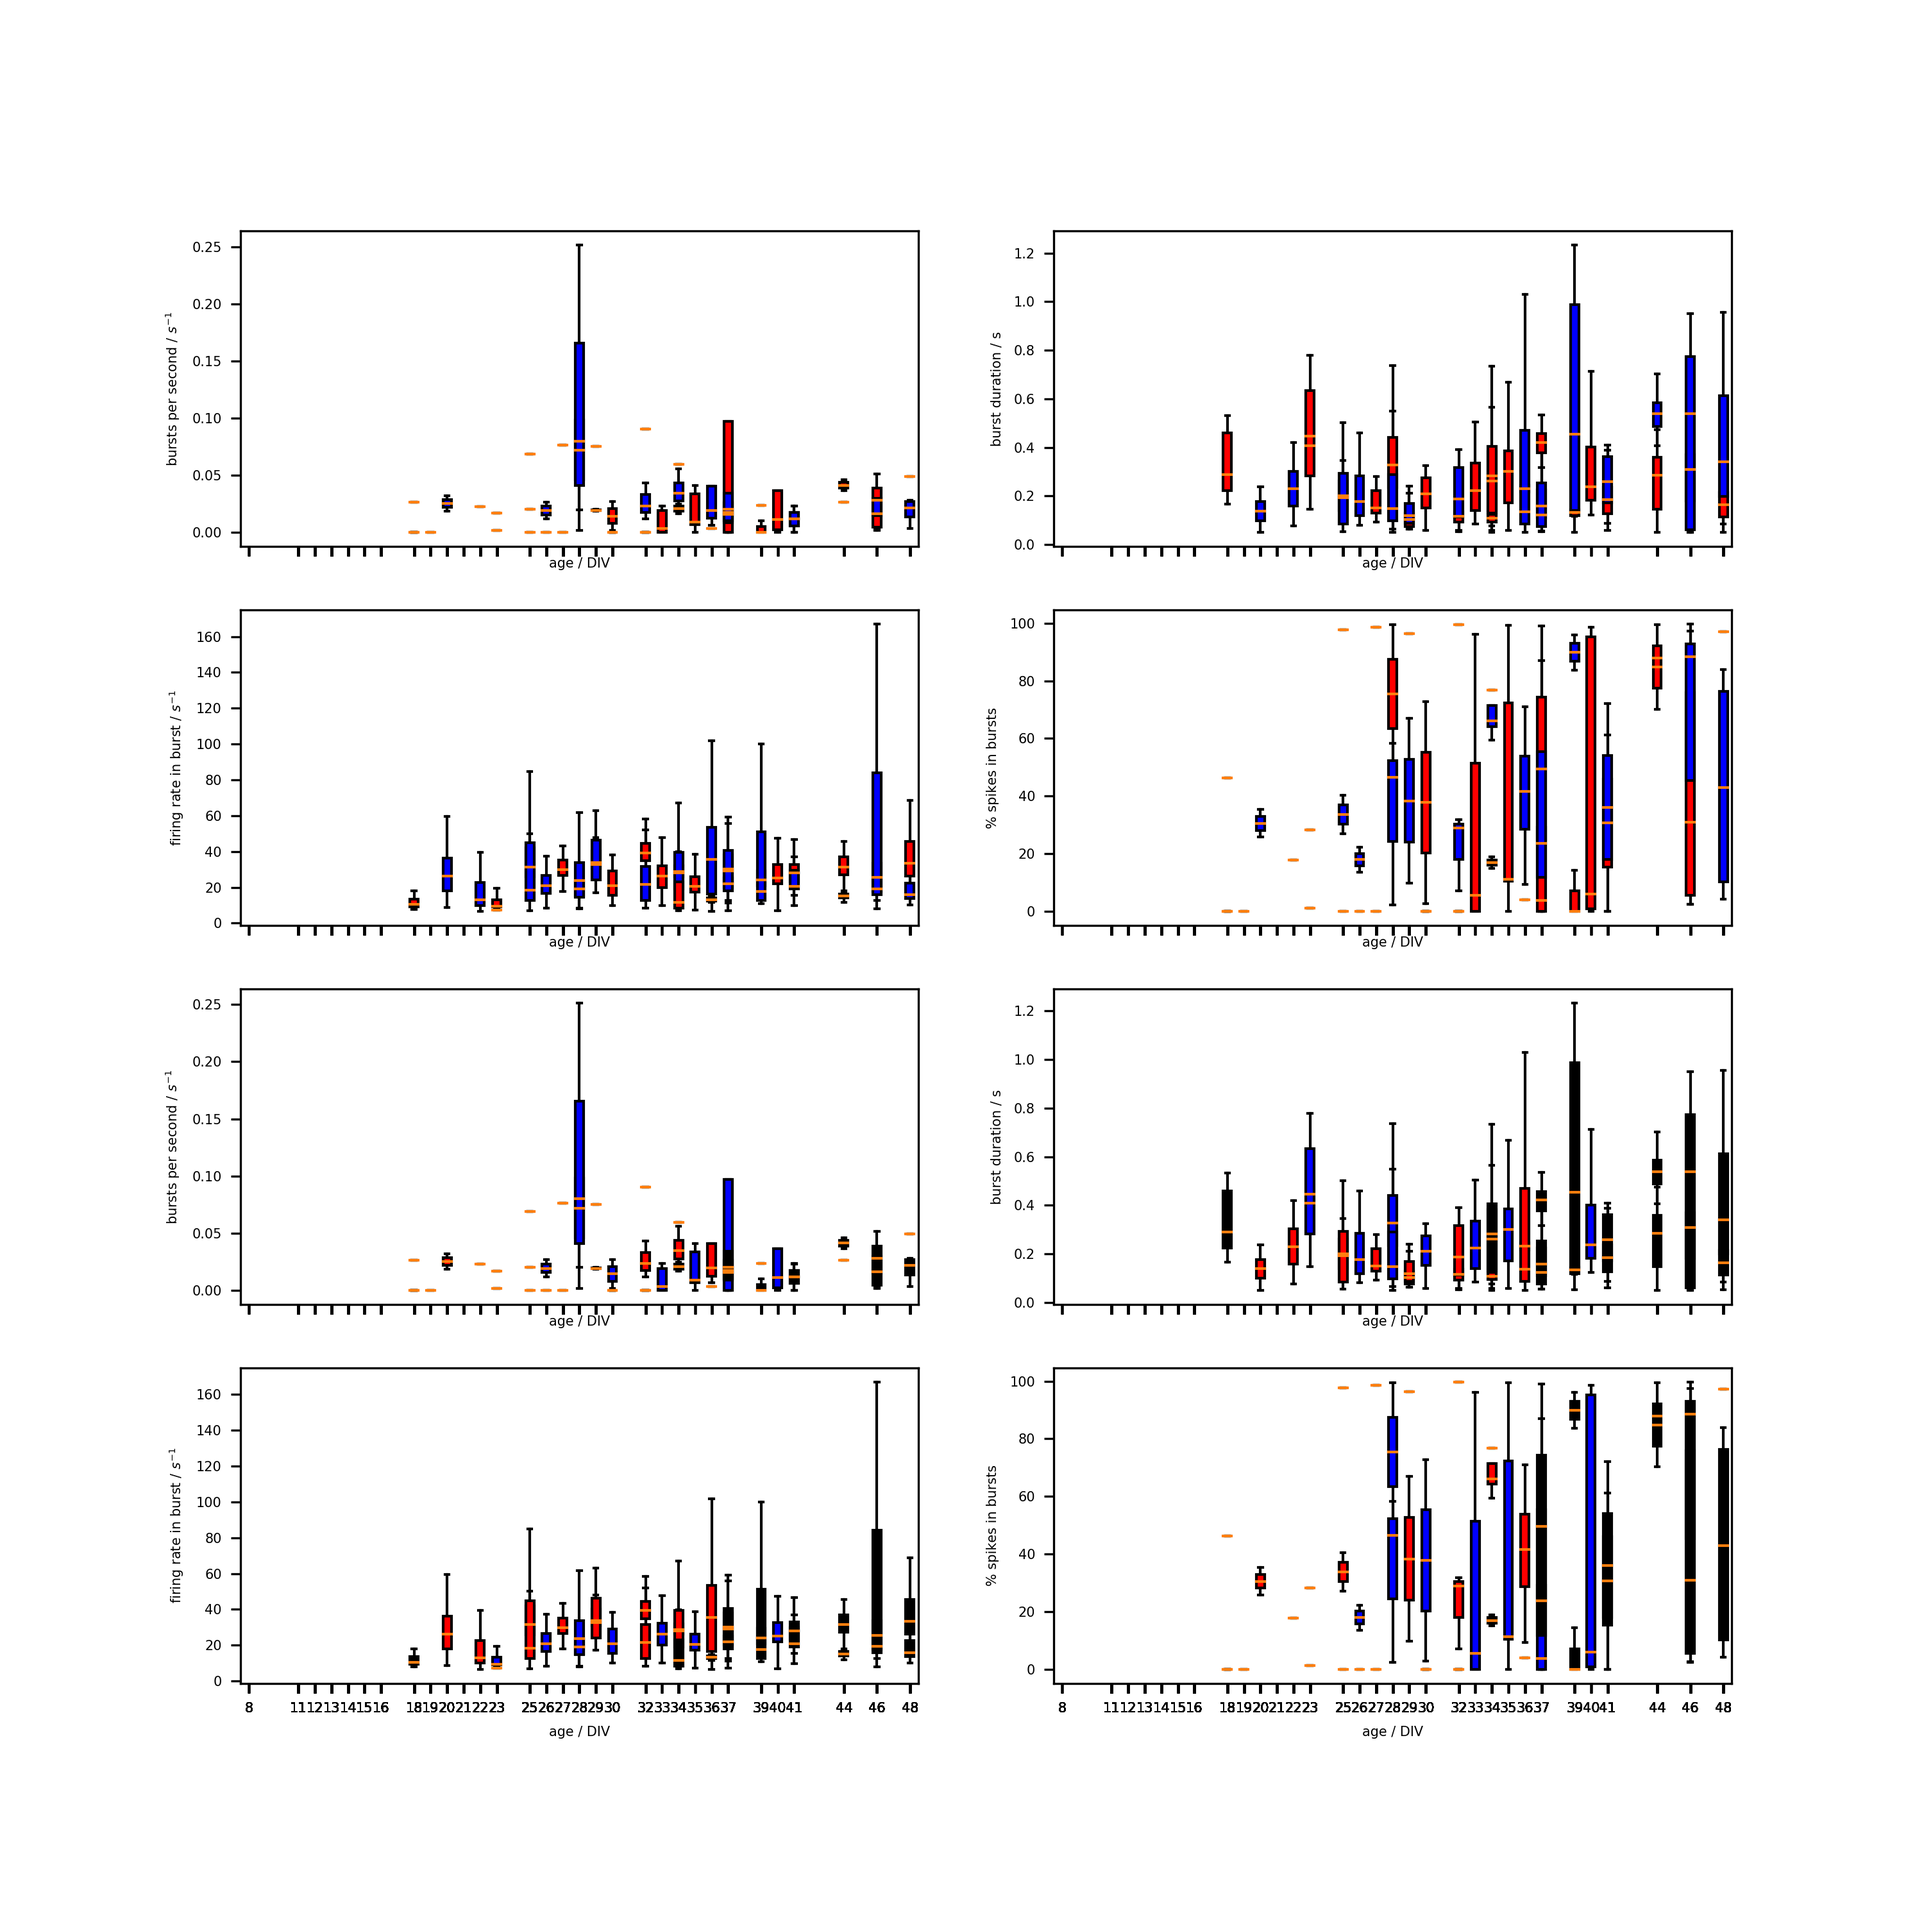
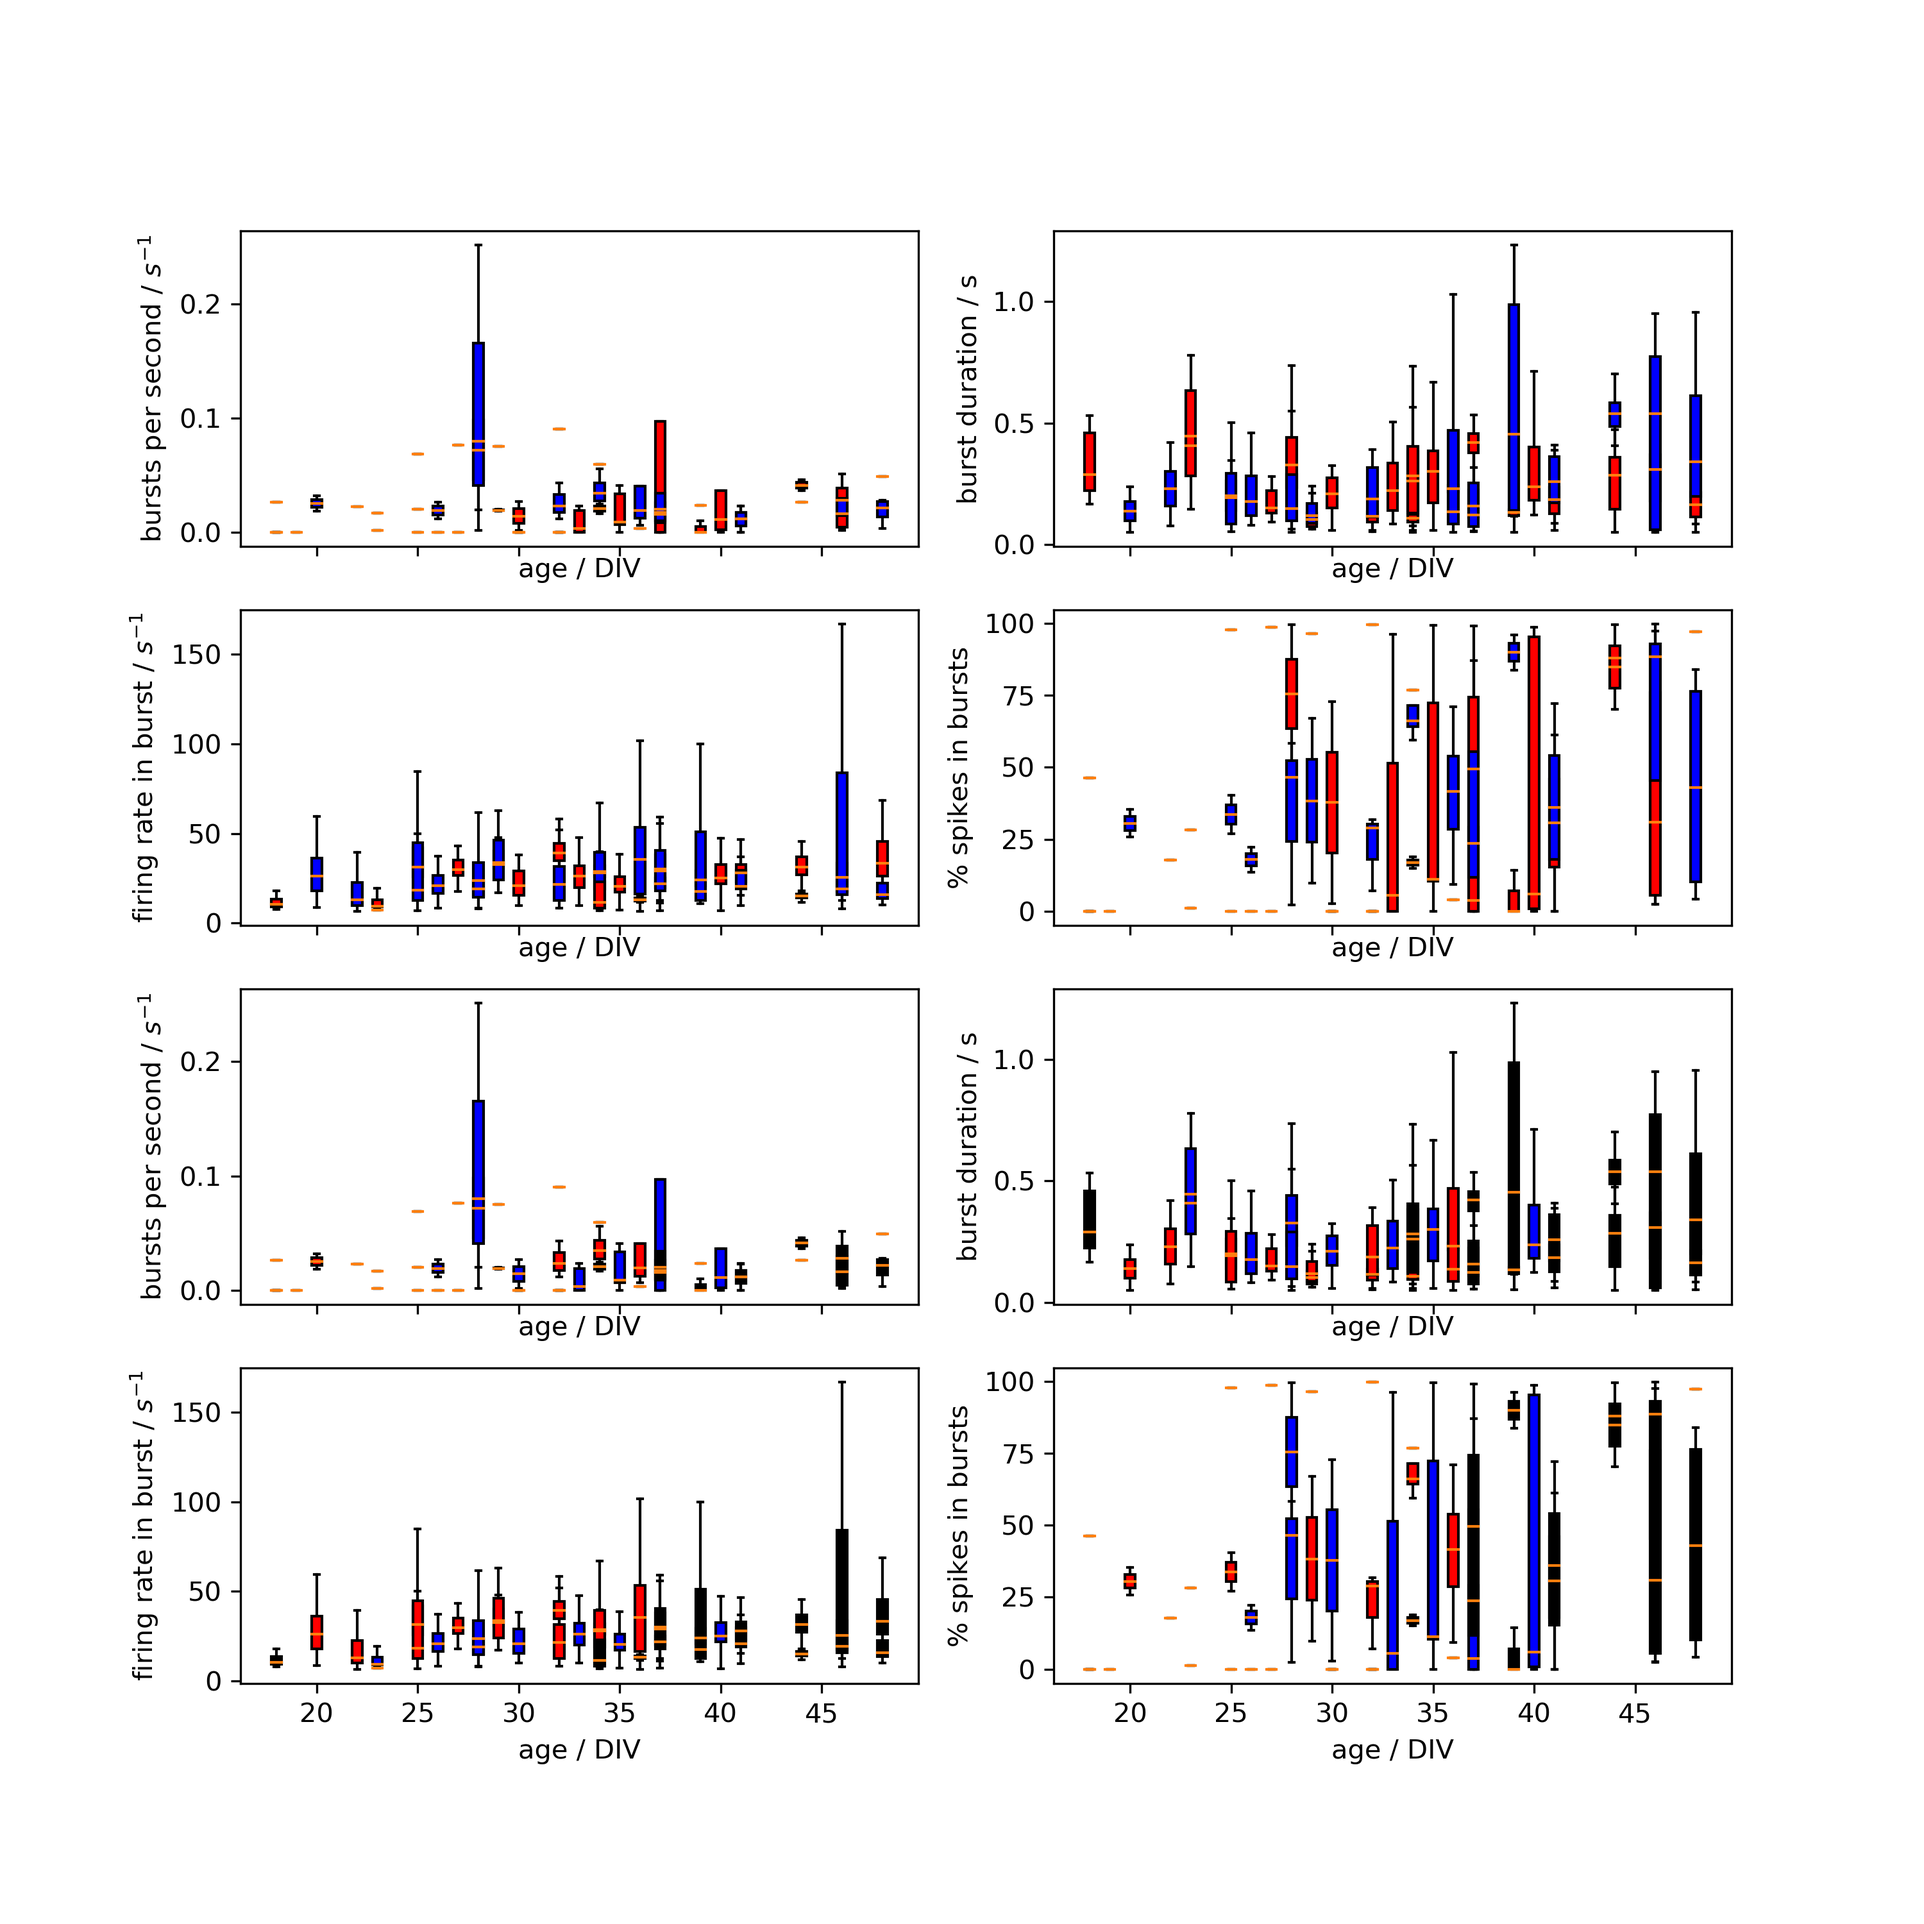
Make boxplot axes clearer

diff --git a/scripts/compute_burst_statistics.py b/scripts/compute_burst_statistics.py
@@ -18,7 +18,7 @@ meaRtools = importr("meaRtools")
 # adjust matplotlib parameters
 matplotlib.rcParams["figure.dpi"] = 300
 matplotlib.rcParams["figure.figsize"] = [10, 10]
-matplotlib.rcParams["font.size"] = 5.0
+matplotlib.rcParams["font.size"] = 10.0
 
 # get filenames
 DATA_DIR = "../data/2020-02-21_fd/"
@@ -120,14 +120,17 @@ figure, axes = plt.subplots(4, 2, sharex=True)
 # frequency of bursts
 bplot_bfq = axes[0, 0].boxplot(bfq_l,
                                positions=age_l,
+                               manage_ticks=False,
                                sym="",
                                patch_artist=True)
 axes[0, 0].set_xlabel("age / DIV")
+axes[0, 0].set_xticks(range(15, 50, 5))
 axes[0, 0].set_ylabel("bursts per second / $s^{-1}$")
 
 # duration of bursts
 bplot_bdn = axes[0, 1].boxplot(bdn_l,
                                positions=age_l,
+                               manage_ticks=False,
                                sym="",
                                patch_artist=True)
 axes[0, 1].set_xlabel("age / DIV")
@@ -136,6 +139,7 @@ axes[0, 1].set_ylabel("burst duration / s")
 # firing rate in burst
 bplot_bfr = axes[1, 0].boxplot(bfr_l,
                                positions=age_l,
+                               manage_ticks=False,
                                sym="",
                                patch_artist=True)
 axes[1, 0].set_xlabel("age / DIV")
@@ -144,6 +148,7 @@ axes[1, 0].set_ylabel("firing rate in burst / $s^{-1}$")
 # percentage of spikes in bursts
 bplot_bpc = axes[1, 1].boxplot(bpc_l,
                                positions=age_l,
+                               manage_ticks=False,
                                sym="",
                                patch_artist=True)
 axes[1, 1].set_xlabel("age / DIV")
@@ -156,6 +161,7 @@ for bplot in (bplot_bfq, bplot_bdn, bplot_bfr, bplot_bpc):
 # frequency of bursts
 bplot_bfq = axes[2, 0].boxplot(bfq_l,
                                positions=age_l,
+                               manage_ticks=False,
                                sym="",
                                patch_artist=True)
 axes[2, 0].set_xlabel("age / DIV")
@@ -164,6 +170,7 @@ axes[2, 0].set_ylabel("bursts per second / $s^{-1}$")
 # duration of bursts
 bplot_bdn = axes[2, 1].boxplot(bdn_l,
                                positions=age_l,
+                               manage_ticks=False,
                                sym="",
                                patch_artist=True)
 axes[2, 1].set_xlabel("age / DIV")
@@ -172,6 +179,7 @@ axes[2, 1].set_ylabel("burst duration / s")
 # firing rate in burst
 bplot_bfr = axes[3, 0].boxplot(bfr_l,
                                positions=age_l,
+                               manage_ticks=False,
                                sym="",
                                patch_artist=True)
 axes[3, 0].set_xlabel("age / DIV")
@@ -180,6 +188,7 @@ axes[3, 0].set_ylabel("firing rate in burst / $s^{-1}$")
 # percentage of spikes in bursts
 bplot_bpc = axes[3, 1].boxplot(bpc_l,
                                positions=age_l,
+                               manage_ticks=False,
                                sym="",
                                patch_artist=True)
 axes[3, 1].set_xlabel("age / DIV")
